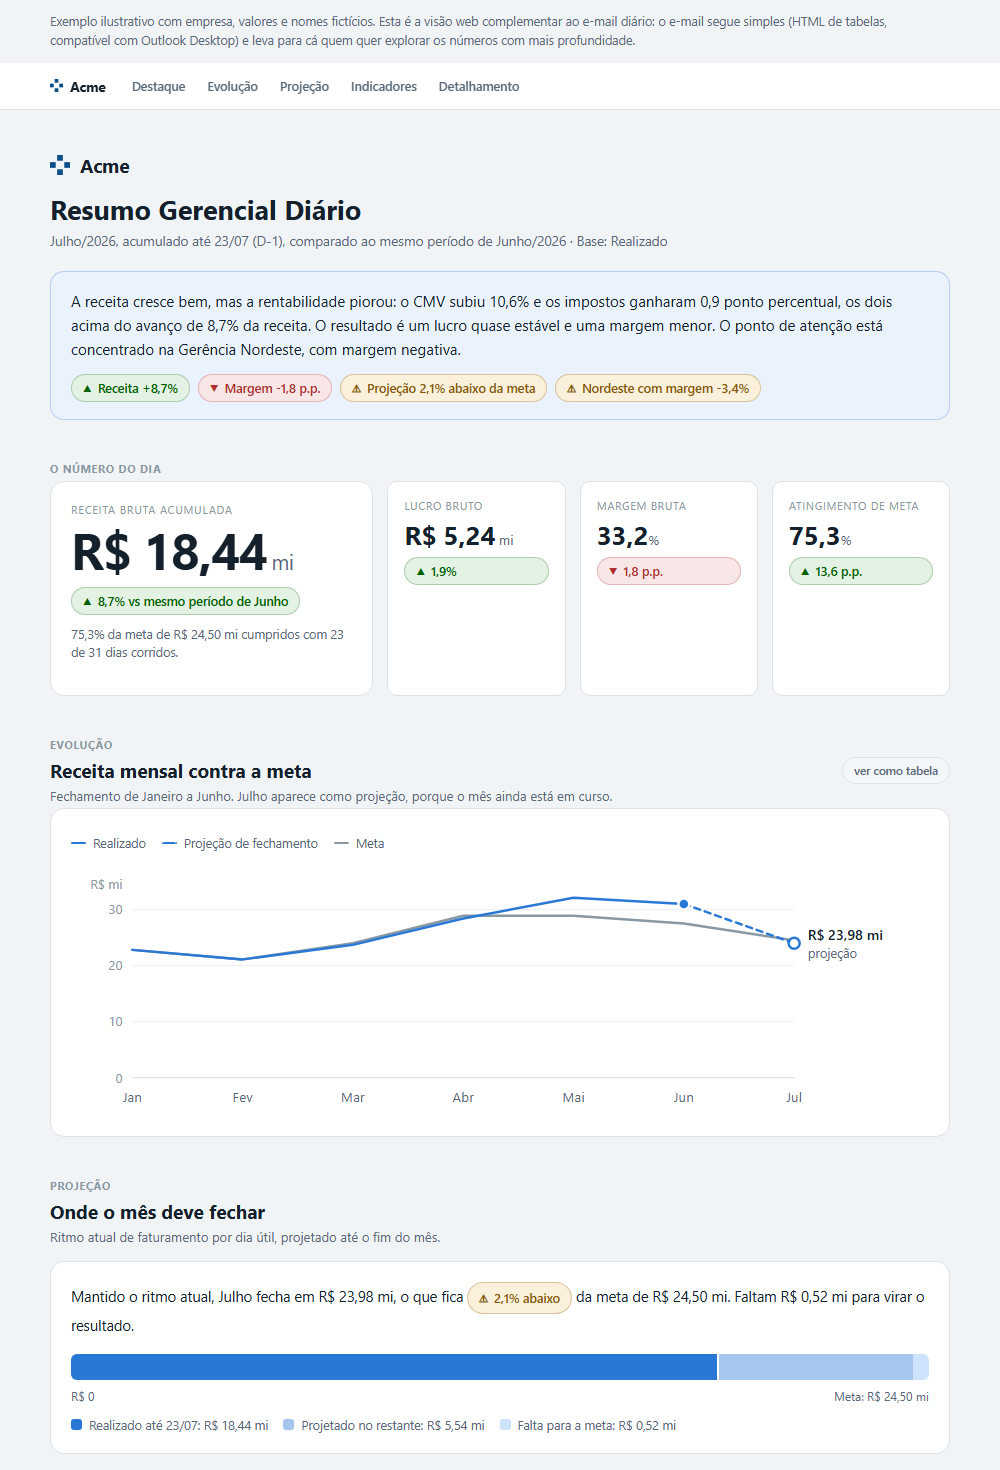
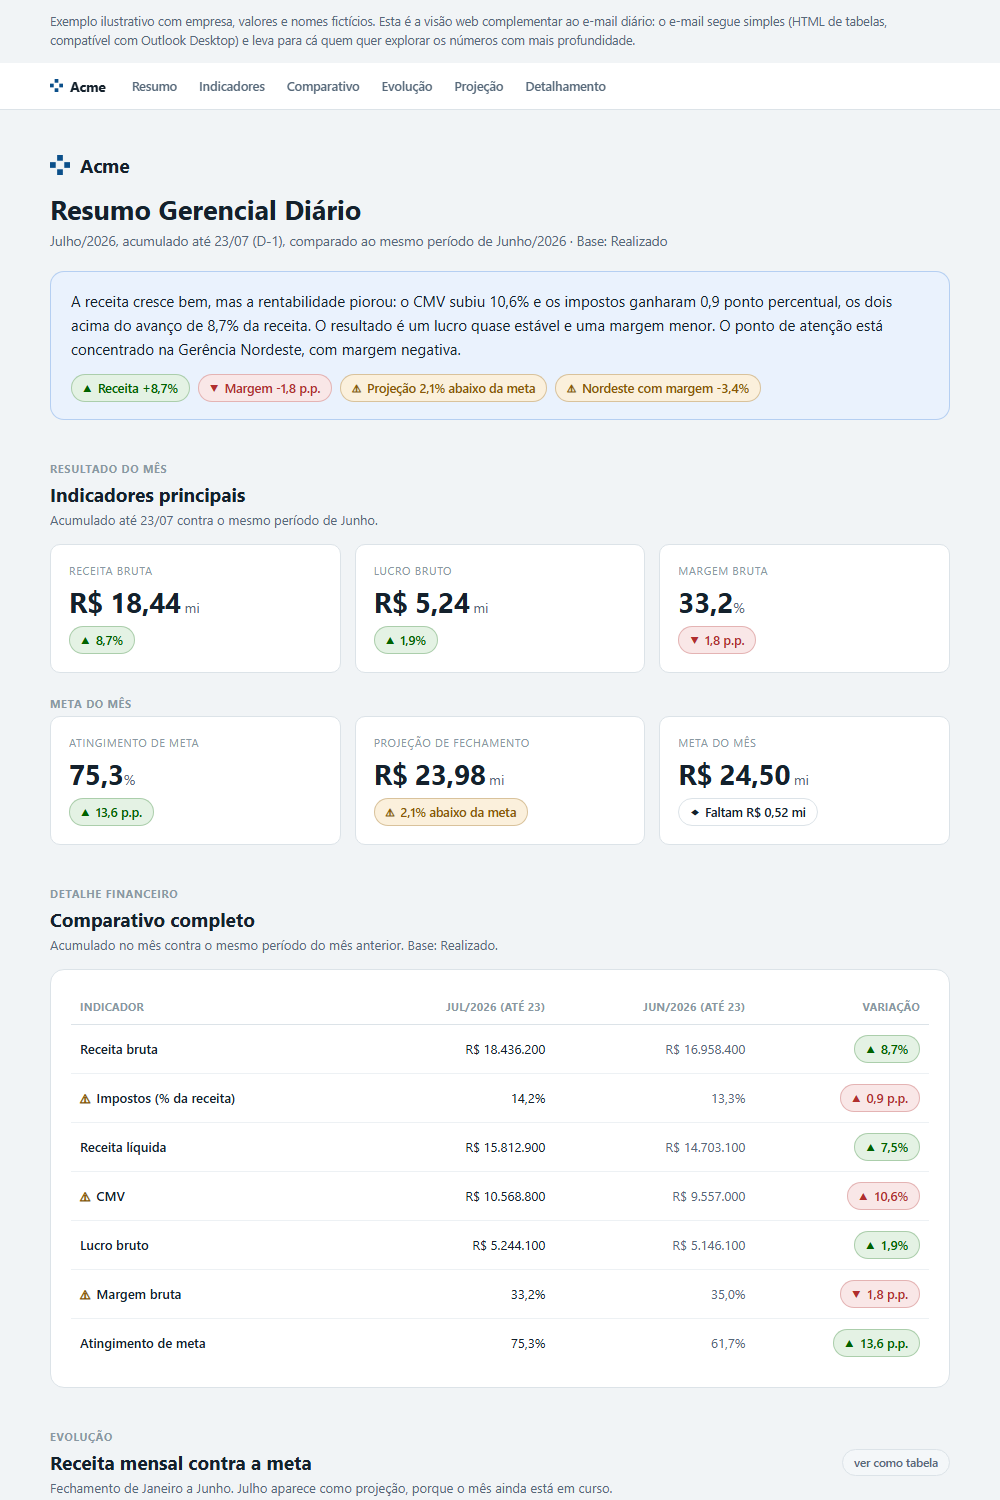
Cartoes de indicador com peso visual igual e tabelas de volta ao topo

diff --git a/dashboard-preview.html b/dashboard-preview.html
@@ -165,27 +165,18 @@
   }
   .card h3 { font-size: 15px; font-weight: 700; margin: 0 0 3px; }
 
-  /* hero + tiles */
-  .hero-row { display: grid; grid-template-columns: 1.15fr 2fr; gap: 14px; align-items: stretch; }
-  .hero {
-    background: var(--surface); border: 1px solid var(--line);
-    border-radius: var(--r-lg); padding: 20px;
-    display: flex; flex-direction: column; justify-content: center;
-  }
-  .hero .lbl { font-size: 11px; letter-spacing: 0.07em; text-transform: uppercase; color: var(--ink-muted); margin-bottom: 8px; }
-  .hero .fig { font-size: 50px; font-weight: 700; line-height: 1; letter-spacing: -0.02em; margin-bottom: 12px; }
-  .hero .fig span { font-size: 21px; font-weight: 400; color: var(--ink-2); }
-  .hero .ctx { font-size: 12.5px; color: var(--ink-2); margin-top: 10px; line-height: 1.5; }
-
-  .tiles { display: grid; grid-template-columns: repeat(3, 1fr); gap: 14px; }
+  /* cartoes de indicador: todos com o mesmo peso visual */
+  .tiles { display: grid; gap: 14px; align-items: stretch; }
+  .tiles.t3 { grid-template-columns: repeat(3, 1fr); }
   .tile {
     background: var(--surface); border: 1px solid var(--line);
-    border-radius: var(--r-md); padding: 16px;
-    display: flex; flex-direction: column; gap: 9px;
+    border-radius: var(--r-md); padding: 18px;
+    display: flex; flex-direction: column; gap: 10px;
   }
   .tile .lbl { font-size: 11px; letter-spacing: 0.06em; text-transform: uppercase; color: var(--ink-muted); }
-  .tile .val { font-size: 26px; font-weight: 700; line-height: 1; }
-  .tile .val span { font-size: 13px; font-weight: 400; color: var(--ink-2); }
+  .tile .val { font-size: 28px; font-weight: 700; line-height: 1; letter-spacing: -0.01em; }
+  .tile .val span { font-size: 14px; font-weight: 400; color: var(--ink-2); }
+  .tile .chip { align-self: flex-start; margin-top: auto; }
 
   /* gráfico */
   .chart-head { display: flex; align-items: flex-start; justify-content: space-between; gap: 12px; flex-wrap: wrap; margin-bottom: 4px; }
@@ -291,10 +282,8 @@
   footer { margin-top: 18px; padding-top: 16px; border-top: 1px solid var(--line); font-size: 12px; color: var(--ink-muted); line-height: 1.6; }
 
   @media (max-width: 760px) {
-    .hero-row { grid-template-columns: 1fr; }
-    .tiles { grid-template-columns: 1fr; }
+    .tiles.t3 { grid-template-columns: 1fr; }
     .bd-grid { grid-template-columns: 1fr; }
-    .hero .fig { font-size: 42px; }
   }
 </style>
 
@@ -308,10 +297,11 @@
       <svg viewBox="0 0 28 28" fill="currentColor" aria-hidden="true"><rect x="10" y="0" width="8" height="8"/><rect x="0" y="10" width="8" height="8"/><rect x="20" y="10" width="8" height="8"/><rect x="10" y="20" width="8" height="8"/></svg>
       <b>Acme</b>
     </span>
-    <a href="#destaque">Destaque</a>
+    <a href="#destaque">Resumo</a>
+    <a href="#indicadores">Indicadores</a>
+    <a href="#comparativo">Comparativo</a>
     <a href="#evolucao">Evolução</a>
     <a href="#projecao">Projeção</a>
-    <a href="#indicadores">Indicadores</a>
     <a href="#detalhamento">Detalhamento</a>
   </nav>
 </div>
@@ -337,33 +327,66 @@
     </div>
   </header>
 
-  <section aria-labelledby="h-num">
-    <p class="eyebrow">O número do dia</p>
-    <h2 id="h-num" class="sr-only">Receita bruta do mês</h2>
-    <div class="hero-row">
-      <div class="hero">
-        <div class="lbl">Receita bruta acumulada</div>
-        <div class="fig">R$ 18,44<span> mi</span></div>
-        <span class="chip good" style="align-self:flex-start;"><span class="ico" aria-hidden="true">▲</span>8,7% vs mesmo período de Junho</span>
-        <p class="ctx">75,3% da meta de R$ 24,50 mi cumpridos com 23 de 31 dias corridos.</p>
+  <section id="indicadores">
+    <p class="eyebrow">Resultado do mês</p>
+    <h2>Indicadores principais</h2>
+    <p class="sub">Acumulado até 23/07 contra o mesmo período de Junho.</p>
+
+    <div class="tiles t3">
+      <div class="tile">
+        <div class="lbl">Receita bruta</div>
+        <div class="val">R$ 18,44<span> mi</span></div>
+        <span class="chip good"><span class="ico" aria-hidden="true">▲</span>8,7%</span>
       </div>
-      <div class="tiles">
-        <div class="tile">
-          <div class="lbl">Lucro bruto</div>
-          <div class="val">R$ 5,24<span> mi</span></div>
-          <span class="chip good"><span class="ico" aria-hidden="true">▲</span>1,9%</span>
-        </div>
-        <div class="tile">
-          <div class="lbl">Margem bruta</div>
-          <div class="val">33,2<span>%</span></div>
-          <span class="chip bad"><span class="ico" aria-hidden="true">▼</span>1,8 p.p.</span>
-        </div>
-        <div class="tile">
-          <div class="lbl">Atingimento de meta</div>
-          <div class="val">75,3<span>%</span></div>
-          <span class="chip good"><span class="ico" aria-hidden="true">▲</span>13,6 p.p.</span>
-        </div>
+      <div class="tile">
+        <div class="lbl">Lucro bruto</div>
+        <div class="val">R$ 5,24<span> mi</span></div>
+        <span class="chip good"><span class="ico" aria-hidden="true">▲</span>1,9%</span>
       </div>
+      <div class="tile">
+        <div class="lbl">Margem bruta</div>
+        <div class="val">33,2<span>%</span></div>
+        <span class="chip bad"><span class="ico" aria-hidden="true">▼</span>1,8 p.p.</span>
+      </div>
+    </div>
+
+    <p class="eyebrow" style="margin-top:24px;">Meta do mês</p>
+    <div class="tiles t3">
+      <div class="tile">
+        <div class="lbl">Atingimento de meta</div>
+        <div class="val">75,3<span>%</span></div>
+        <span class="chip good"><span class="ico" aria-hidden="true">▲</span>13,6 p.p.</span>
+      </div>
+      <div class="tile">
+        <div class="lbl">Projeção de fechamento</div>
+        <div class="val">R$ 23,98<span> mi</span></div>
+        <span class="chip warn"><span class="ico" aria-hidden="true">⚠</span>2,1% abaixo da meta</span>
+      </div>
+      <div class="tile">
+        <div class="lbl">Meta do mês</div>
+        <div class="val">R$ 24,50<span> mi</span></div>
+        <span class="chip"><span class="ico" aria-hidden="true">◆</span>Faltam R$ 0,52 mi</span>
+      </div>
+    </div>
+  </section>
+
+  <section id="comparativo">
+    <p class="eyebrow">Detalhe financeiro</p>
+    <h2>Comparativo completo</h2>
+    <p class="sub">Acumulado no mês contra o mesmo período do mês anterior. Base: Realizado.</p>
+    <div class="card tbl-wrap">
+      <table>
+        <thead><tr><th scope="col">Indicador</th><th scope="col">Jul/2026 (até 23)</th><th scope="col">Jun/2026 (até 23)</th><th scope="col">Variação</th></tr></thead>
+        <tbody>
+          <tr><td class="nm">Receita bruta</td><td>R$ 18.436.200</td><td class="dim">R$ 16.958.400</td><td><span class="chip good"><span class="ico" aria-hidden="true">▲</span>8,7%</span></td></tr>
+          <tr class="alert"><td class="nm">Impostos (% da receita)</td><td>14,2%</td><td class="dim">13,3%</td><td><span class="chip bad"><span class="ico" aria-hidden="true">▲</span>0,9 p.p.</span></td></tr>
+          <tr><td class="nm">Receita líquida</td><td>R$ 15.812.900</td><td class="dim">R$ 14.703.100</td><td><span class="chip good"><span class="ico" aria-hidden="true">▲</span>7,5%</span></td></tr>
+          <tr class="alert"><td class="nm">CMV</td><td>R$ 10.568.800</td><td class="dim">R$ 9.557.000</td><td><span class="chip bad"><span class="ico" aria-hidden="true">▲</span>10,6%</span></td></tr>
+          <tr><td class="nm">Lucro bruto</td><td>R$ 5.244.100</td><td class="dim">R$ 5.146.100</td><td><span class="chip good"><span class="ico" aria-hidden="true">▲</span>1,9%</span></td></tr>
+          <tr class="alert"><td class="nm">Margem bruta</td><td>33,2%</td><td class="dim">35,0%</td><td><span class="chip bad"><span class="ico" aria-hidden="true">▼</span>1,8 p.p.</span></td></tr>
+          <tr><td class="nm">Atingimento de meta</td><td>75,3%</td><td class="dim">61,7%</td><td><span class="chip good"><span class="ico" aria-hidden="true">▲</span>13,6 p.p.</span></td></tr>
+        </tbody>
+      </table>
     </div>
   </section>
 
@@ -461,26 +484,6 @@
           <span><i class="sw c" aria-hidden="true"></i>Falta para a meta: R$ 0,52 mi</span>
         </div>
       </div>
-    </div>
-  </section>
-
-  <section id="indicadores">
-    <p class="eyebrow">Detalhe financeiro</p>
-    <h2>Comparativo completo</h2>
-    <p class="sub">Acumulado no mês contra o mesmo período do mês anterior. Base: Realizado.</p>
-    <div class="card tbl-wrap">
-      <table>
-        <thead><tr><th scope="col">Indicador</th><th scope="col">Jul/2026 (até 23)</th><th scope="col">Jun/2026 (até 23)</th><th scope="col">Variação</th></tr></thead>
-        <tbody>
-          <tr><td class="nm">Receita bruta</td><td>R$ 18.436.200</td><td class="dim">R$ 16.958.400</td><td><span class="chip good"><span class="ico" aria-hidden="true">▲</span>8,7%</span></td></tr>
-          <tr class="alert"><td class="nm">Impostos (% da receita)</td><td>14,2%</td><td class="dim">13,3%</td><td><span class="chip bad"><span class="ico" aria-hidden="true">▲</span>0,9 p.p.</span></td></tr>
-          <tr><td class="nm">Receita líquida</td><td>R$ 15.812.900</td><td class="dim">R$ 14.703.100</td><td><span class="chip good"><span class="ico" aria-hidden="true">▲</span>7,5%</span></td></tr>
-          <tr class="alert"><td class="nm">CMV</td><td>R$ 10.568.800</td><td class="dim">R$ 9.557.000</td><td><span class="chip bad"><span class="ico" aria-hidden="true">▲</span>10,6%</span></td></tr>
-          <tr><td class="nm">Lucro bruto</td><td>R$ 5.244.100</td><td class="dim">R$ 5.146.100</td><td><span class="chip good"><span class="ico" aria-hidden="true">▲</span>1,9%</span></td></tr>
-          <tr class="alert"><td class="nm">Margem bruta</td><td>33,2%</td><td class="dim">35,0%</td><td><span class="chip bad"><span class="ico" aria-hidden="true">▼</span>1,8 p.p.</span></td></tr>
-          <tr><td class="nm">Atingimento de meta</td><td>75,3%</td><td class="dim">61,7%</td><td><span class="chip good"><span class="ico" aria-hidden="true">▲</span>13,6 p.p.</span></td></tr>
-        </tbody>
-      </table>
     </div>
   </section>
 

diff --git a/README.md b/README.md
@@ -24,13 +24,14 @@ O e-mail em si continua deliberadamente simples (HTML de tabelas, compatível co
 
 ![Painel web complementar](./dashboard-preview.png)
 
-Hierarquia de leitura, do geral ao específico:
+Ordem de leitura, do geral ao específico:
 
-1. Um bloco de insight que resume em uma frase o que mudou e por quê, seguido de chips com os quatro pontos que merecem atenção
-2. Um número protagonista (receita bruta acumulada, em 50px) com três indicadores de apoio ao lado, em vez de cinco cartões de peso visual igual
-3. Um gráfico de linha da receita mensal contra a meta, com Janeiro a Junho fechados e Julho como projeção tracejada, já que o mês ainda está em curso
-4. Um medidor de projeção que mostra numa única barra o que já foi realizado, o que a projeção acrescenta e o quanto falta para a meta
-5. A tabela financeira completa e o detalhamento por dimensão
+1. Um bloco de insight que resume em uma frase o que mudou e por quê, seguido de chips com os pontos que merecem atenção
+2. Os indicadores em cartões de peso visual igual, separados em dois grupos: resultado do mês e meta do mês
+3. A tabela comparativa completa, com todas as linhas do DRE e a variação de cada uma
+4. Um gráfico de linha da receita mensal contra a meta, com Janeiro a Junho fechados e Julho como projeção tracejada, já que o mês ainda está em curso
+5. Um medidor que mostra numa única barra o que já foi realizado, o que a projeção acrescenta e o quanto falta para a meta
+6. O detalhamento por dimensão, em tabelas ordenáveis
 
 Decisões de acessibilidade e de visualização:
 
